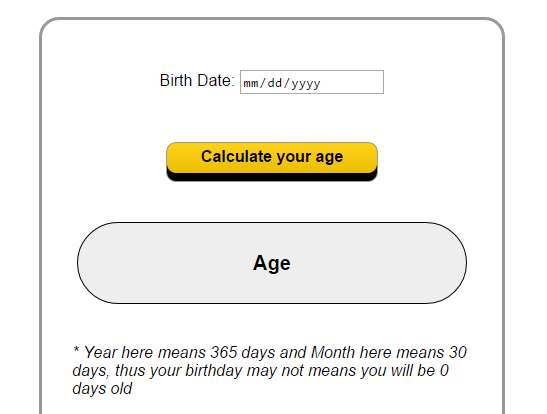
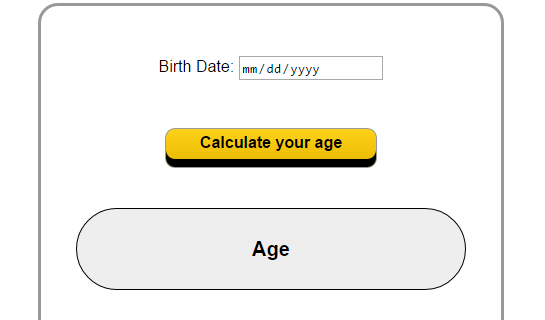
img of turbo project added and resized the img of age cal.

diff --git a/index.html b/index.html
@@ -101,6 +101,7 @@
 	         <h3>&nbsp;Official</h3>
 	          <ul>
 	          <li><b>Turbo Search</b></li>
+	          <img class="projects" src="static/img/turbo.png" width="25%" height="auto">
 	          <p>An advance search engine application designed in visual C# for Windows Phone OS</p>
 	          <li><b>SS Industries</b></li>
 	          <p>Managed official Website of SS Industries</p>
